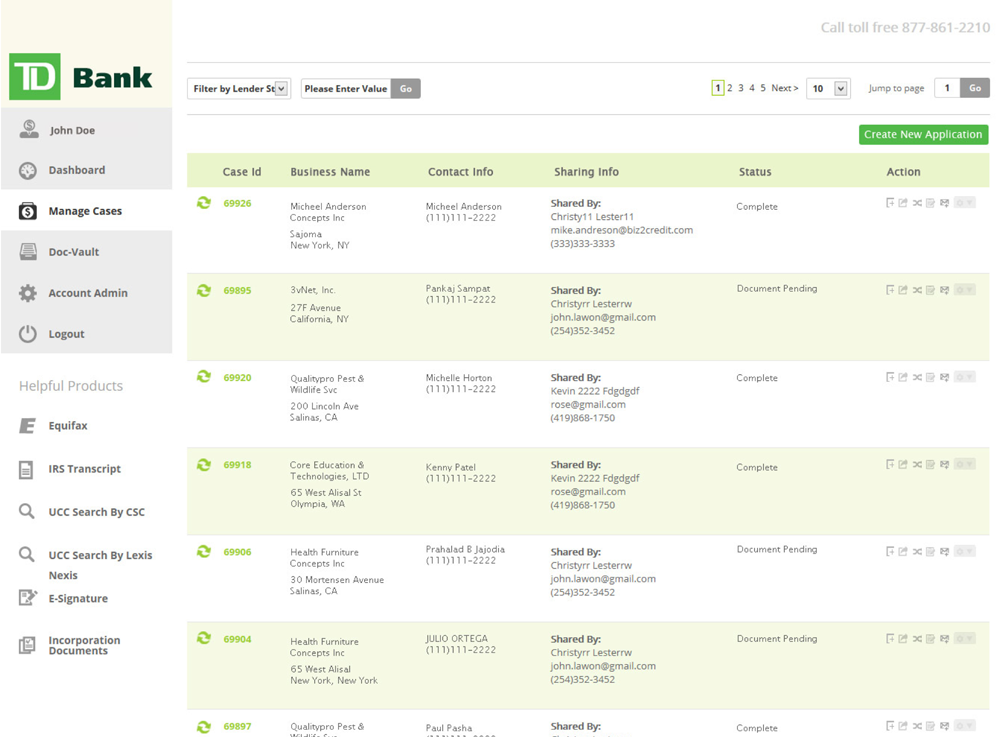
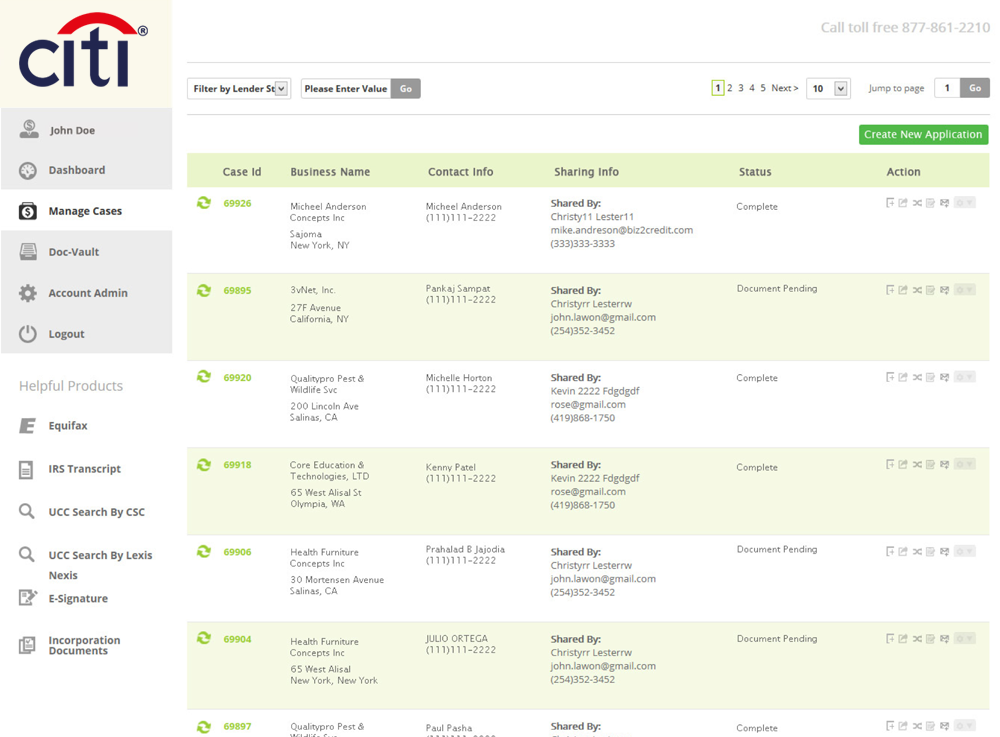
Changes made by Ramit Arora (ravic@biz2credit.com).

Changed region(s): [[0.0, 0.0, 0.155, 0.156]]

diff --git a/CityBank/index.html b/CityBank/index.html
@@ -198,13 +198,13 @@
                             <td width="100%" valign="top"><p>
                                 <label>
                                 <input type="checkbox" value="" class="modification1" name="modification">
-                                Modification to an Existing TD Bank Loan</label>
+                                Modification to an Existing Citi Bank Loan</label>
                               </p></td>
                           </tr>
                           <tr>
                             <td><div class="conditionBlock clearfix modification">
                                 <p  style="padding-bottom:0;"> <span>(excluding interest rate &amp; fee changes):</span>
-                                  <input type="text" required="" placeholder="Existing TD Bank loan #" id="excludinginterest" name="excludinginterest" class="IN1 ipsm3" style="margin-bottom:0;" original-title="Existing TD Bank loan #">
+                                  <input type="text" required="" placeholder="Existing Citi Bank loan #" id="excludinginterest" name="excludinginterest" class="IN1 ipsm3" style="margin-bottom:0;" original-title="Existing Citi Bank loan #">
                                 </p>
                                 <p style="padding-bottom:0;"> <span style="display:block; margin-top:12px;">Change Requested</span>
                                   <input type="text" required="" placeholder="Please Describe" id="please_describe2" name="Please Describe" class="IN1 ipsm3" style="margin-bottom:0;" original-title="Please Describe">
@@ -462,13 +462,13 @@
               </div>
               <div class="rwfil aut clearfix">
                 <p>Automatic Payment Deduction will save you time &amp; money by automatically deducting your monthly payment(s) from your<br>
-                  TD Bank Business Checking account</p>
+                  Citi Bank Business Checking account</p>
               </div>
               <div class="rwfil aut rws clearfix">
                 <p>
                   <input type="text" original-title="Account Number" style="margin-bottom:0; width:725px;" class="IN1" name="Account Number" id="account_no" placeholder="Account Number" required="">
                 </p>
-                <p>Auto deduction from a TD Bank Business Checking account must be established in order to save 1.00% on your interest rate (excluding Express Lease).</p>
+                <p>Auto deduction from a Citi Bank Business Checking account must be established in order to save 1.00% on your interest rate (excluding Express Lease).</p>
               </div>
             </div>
           </div>

diff --git a/CityBank/views/5.html b/CityBank/views/5.html
@@ -133,7 +133,7 @@
                     <span>Yes</span>
                     <input type="radio" class="isapplicantno1" value="" name="r05">
                     <span>No</span></p>
-                  <p class="optText">6. Is the applicant or an owner an employee of TD Bank, N.A. or one of its affiliates?</p>
+                  <p class="optText">6. Is the applicant or an owner an employee of Citi Bank, N.A. or one of its affiliates?</p>
                 </div>
                 <div class="conditionBlock clearfix applicant2">
                   <p style="padding-bottom:0;">
@@ -280,13 +280,13 @@
                     <span>Yes</span>
                     <input type="radio" class="overdraftno" value="" name="a">
                     <span>No</span></p>
-                  <p class="optText">Would you like to apply for Overdraft Protection for your TD Bank Business Checking account?</p>
+                  <p class="optText">Would you like to apply for Overdraft Protection for your Citi Bank Business Checking account?</p>
                 </div>
                 <div class="rwfil clearfix">
                   <div class="conditionBlock clearfix overdraft">
              
                     <p style="padding-bottom:0;">
-                      <input type="text" required="" placeholder="TD Bank Business Checking account #" id="Overdraft" name="overdraft" class="IN1 ipsm3" style="margin-bottom:0;" original-title="TD Bank Business Checking account #">
+                      <input type="text" required="" placeholder="Citi Bank Business Checking account #" id="Overdraft" name="overdraft" class="IN1 ipsm3" style="margin-bottom:0;" original-title="Citi Bank Business Checking account #">
                     </p>
                     <p style="  float: none; margin-top: 11px;">If your request for overdraft protection is approved you may enter into the Bank’s Small Business Overdraft Protection Agreement.</p>
                   </div>

diff --git a/CityBank/views/3.html b/CityBank/views/3.html
@@ -74,7 +74,7 @@
                   <p>The following information is required to process your application & will help us get a complete view of your current banking relationships.</p>
                 </div>
                 <div class="rwfil aut clearfix">
-                  <p>Include all business loans & business deposit relationships (including existing accounts with TD Bank). Do not include rent on office space or other facilities. *Please indicate in the first column below which obligations are being refinanced with this application.</p>
+                  <p>Include all business loans & business deposit relationships (including existing accounts with Citi Bank). Do not include rent on office space or other facilities. *Please indicate in the first column below which obligations are being refinanced with this application.</p>
                 </div>
                 <div class="summarytable clearfix">
                   <h3 class="subtitle">Business Obligations</h3>

diff --git a/CityBank/css/skin_main.css b/CityBank/css/skin_main.css
@@ -99,8 +99,8 @@ ul.nav-menu li a span.nc8{ background-position:-350px -338px}
 #wrapper{ margin:0px; padding:0px; position: relative;}
 header{ width:230px; float:left; position:absolute; left:0px; top:0px; margin:0px; padding:0px;}
 header a:hover{ text-decoration:none}
-.logo{ width:230px; height:93px; padding-top:52px; background-color:#faf9eb; text-align:center}
-.logo a{ background-image:url(../images/layout/whilbl.png); background-repeat:no-repeat; display:block; height:56px; background-position:30px 0px;}
+.logo{ width:230px; height:105px; padding-top:33px; background-color:#faf9eb; text-align:center}
+.logo a{ background-image:url(../images/layout/whilbl.png); background-repeat:no-repeat; display:block; height:85px; background-position:30px 0px;}
 section{ width:auto; margin-left:231px; margin-right:20px; padding:2px 0 30px;  }
 .helnum { text-align:right; padding-bottom:10px; padding-top:10px}
 .helnum h2{ margin:0px; padding:0px; color:#CCC; font-size:18px;}

diff --git a/CityBank/views/9.html b/CityBank/views/9.html
@@ -129,7 +129,7 @@
                     <span>Yes</span>
                     <input type="radio" class="isapplicantno1" value="" name="r88">
                     <span>No</span></p>
-                  <p class="optText">6. Is the Owner, or any of the proposed guarantors an employee of TD Bank, N.A. or one of its affiliates?</p>
+                  <p class="optText">6. Is the Owner, or any of the proposed guarantors an employee of Citi Bank, N.A. or one of its affiliates?</p>
                 </div>
                 <div class="conditionBlock clearfix applicant2">
                   <p style="padding-bottom:0;">

diff --git a/CityBank/views/2.html b/CityBank/views/2.html
@@ -324,7 +324,7 @@
                         <th style="width:180px;" class="last">Owner Name(s)</th>
                       </tr>
                       <tr>
-                        <td><span>TD Bank</span>
+                        <td><span>Citi Bank</span>
                           <div class="clear"></div>
                           <p class="opt wth120">
                             <input name="r4" type="radio" value="">
